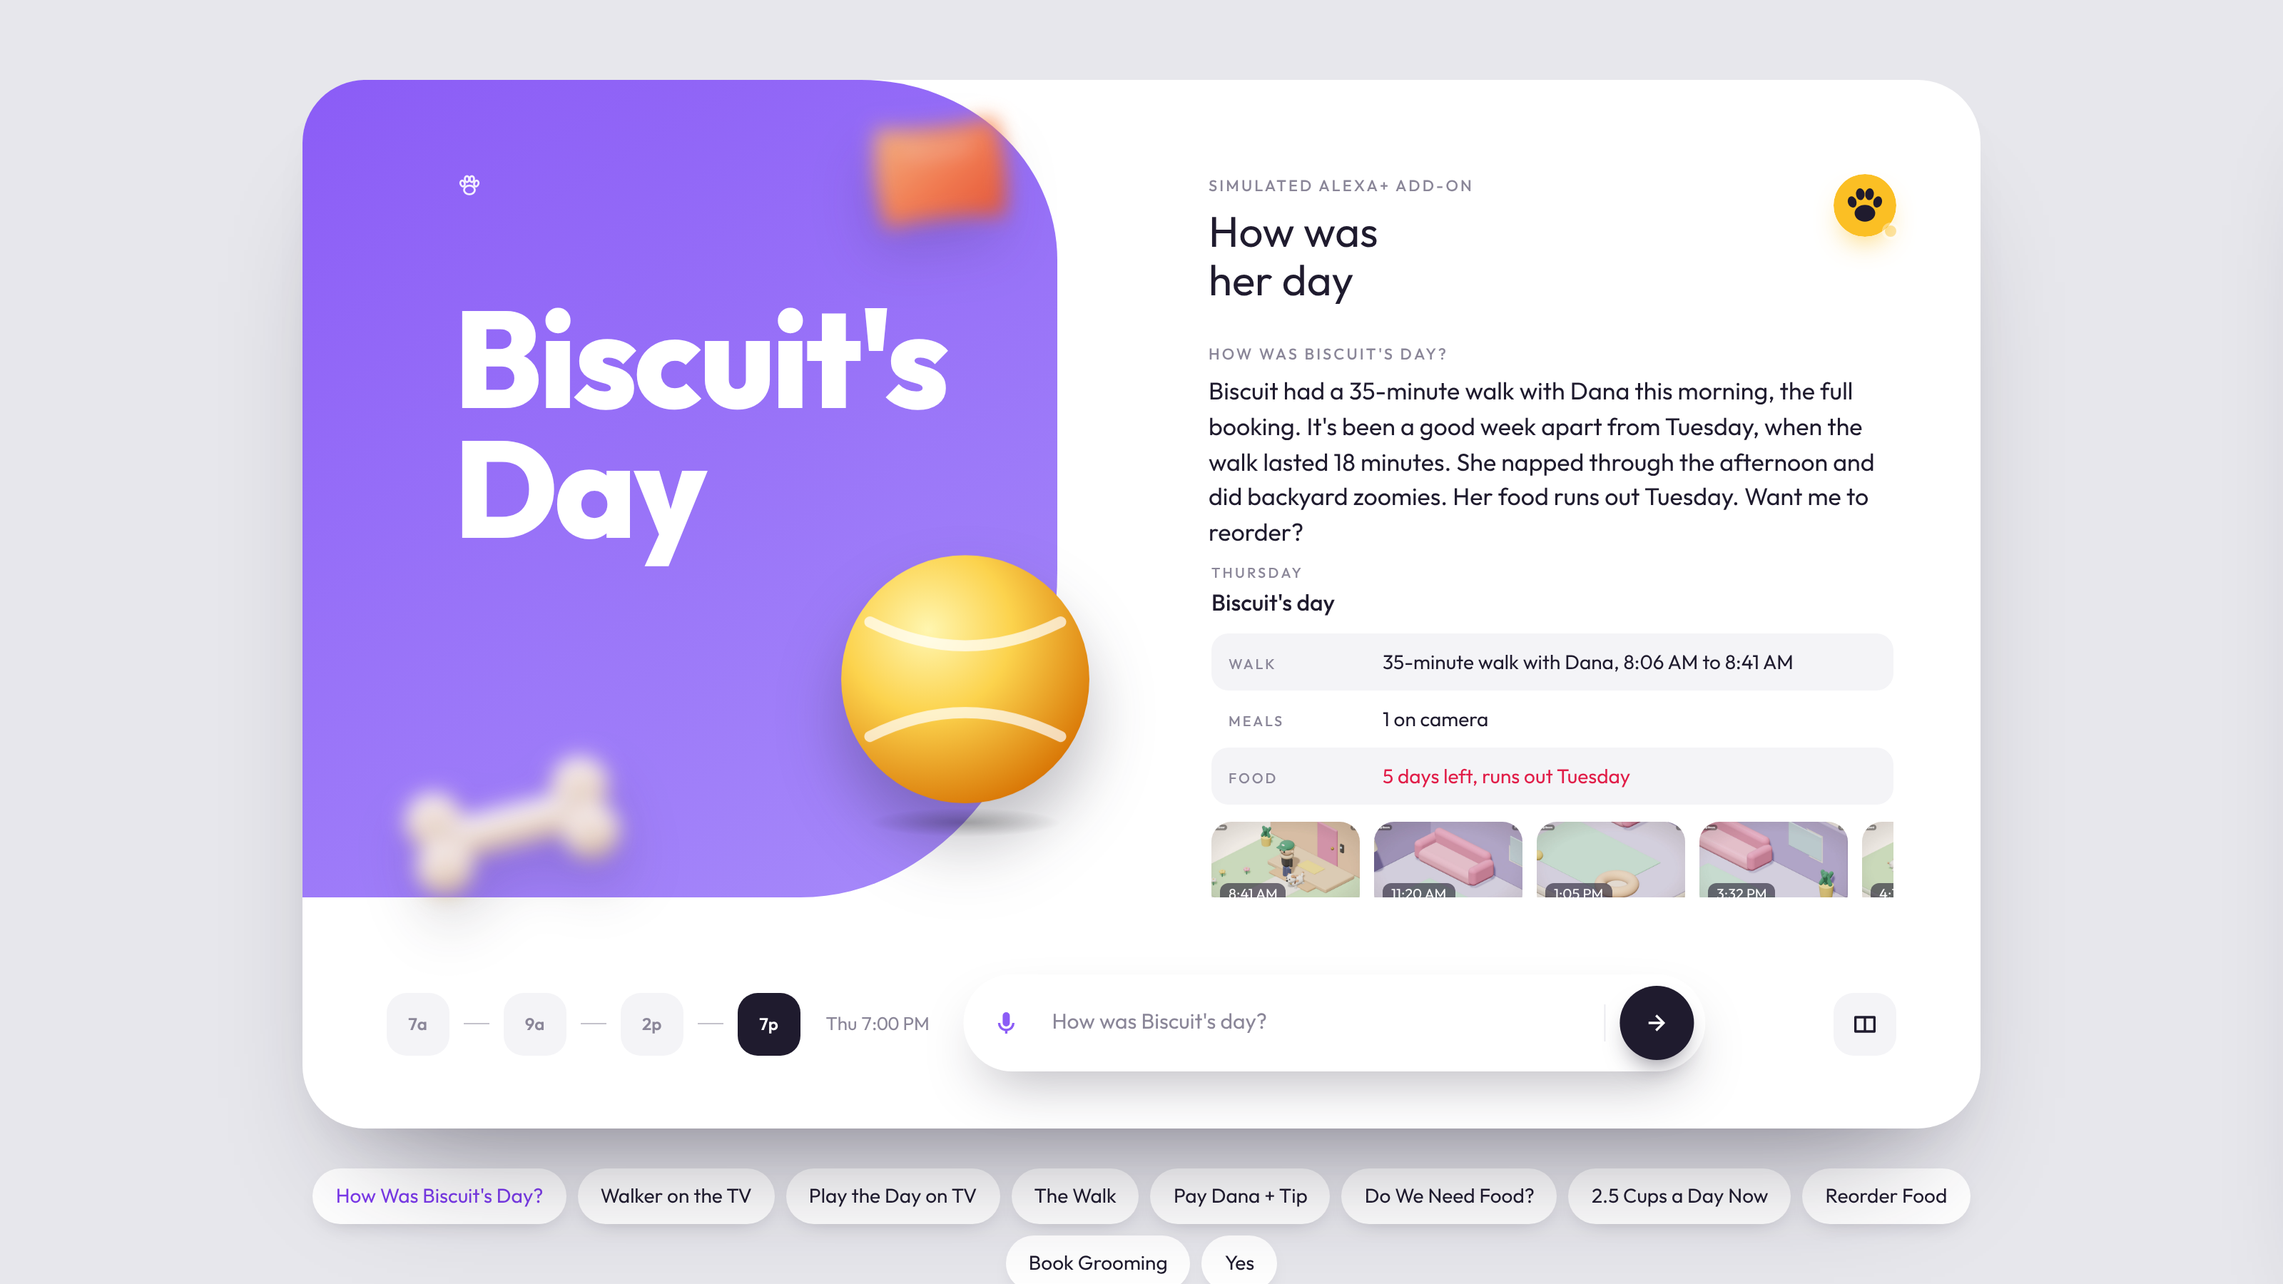
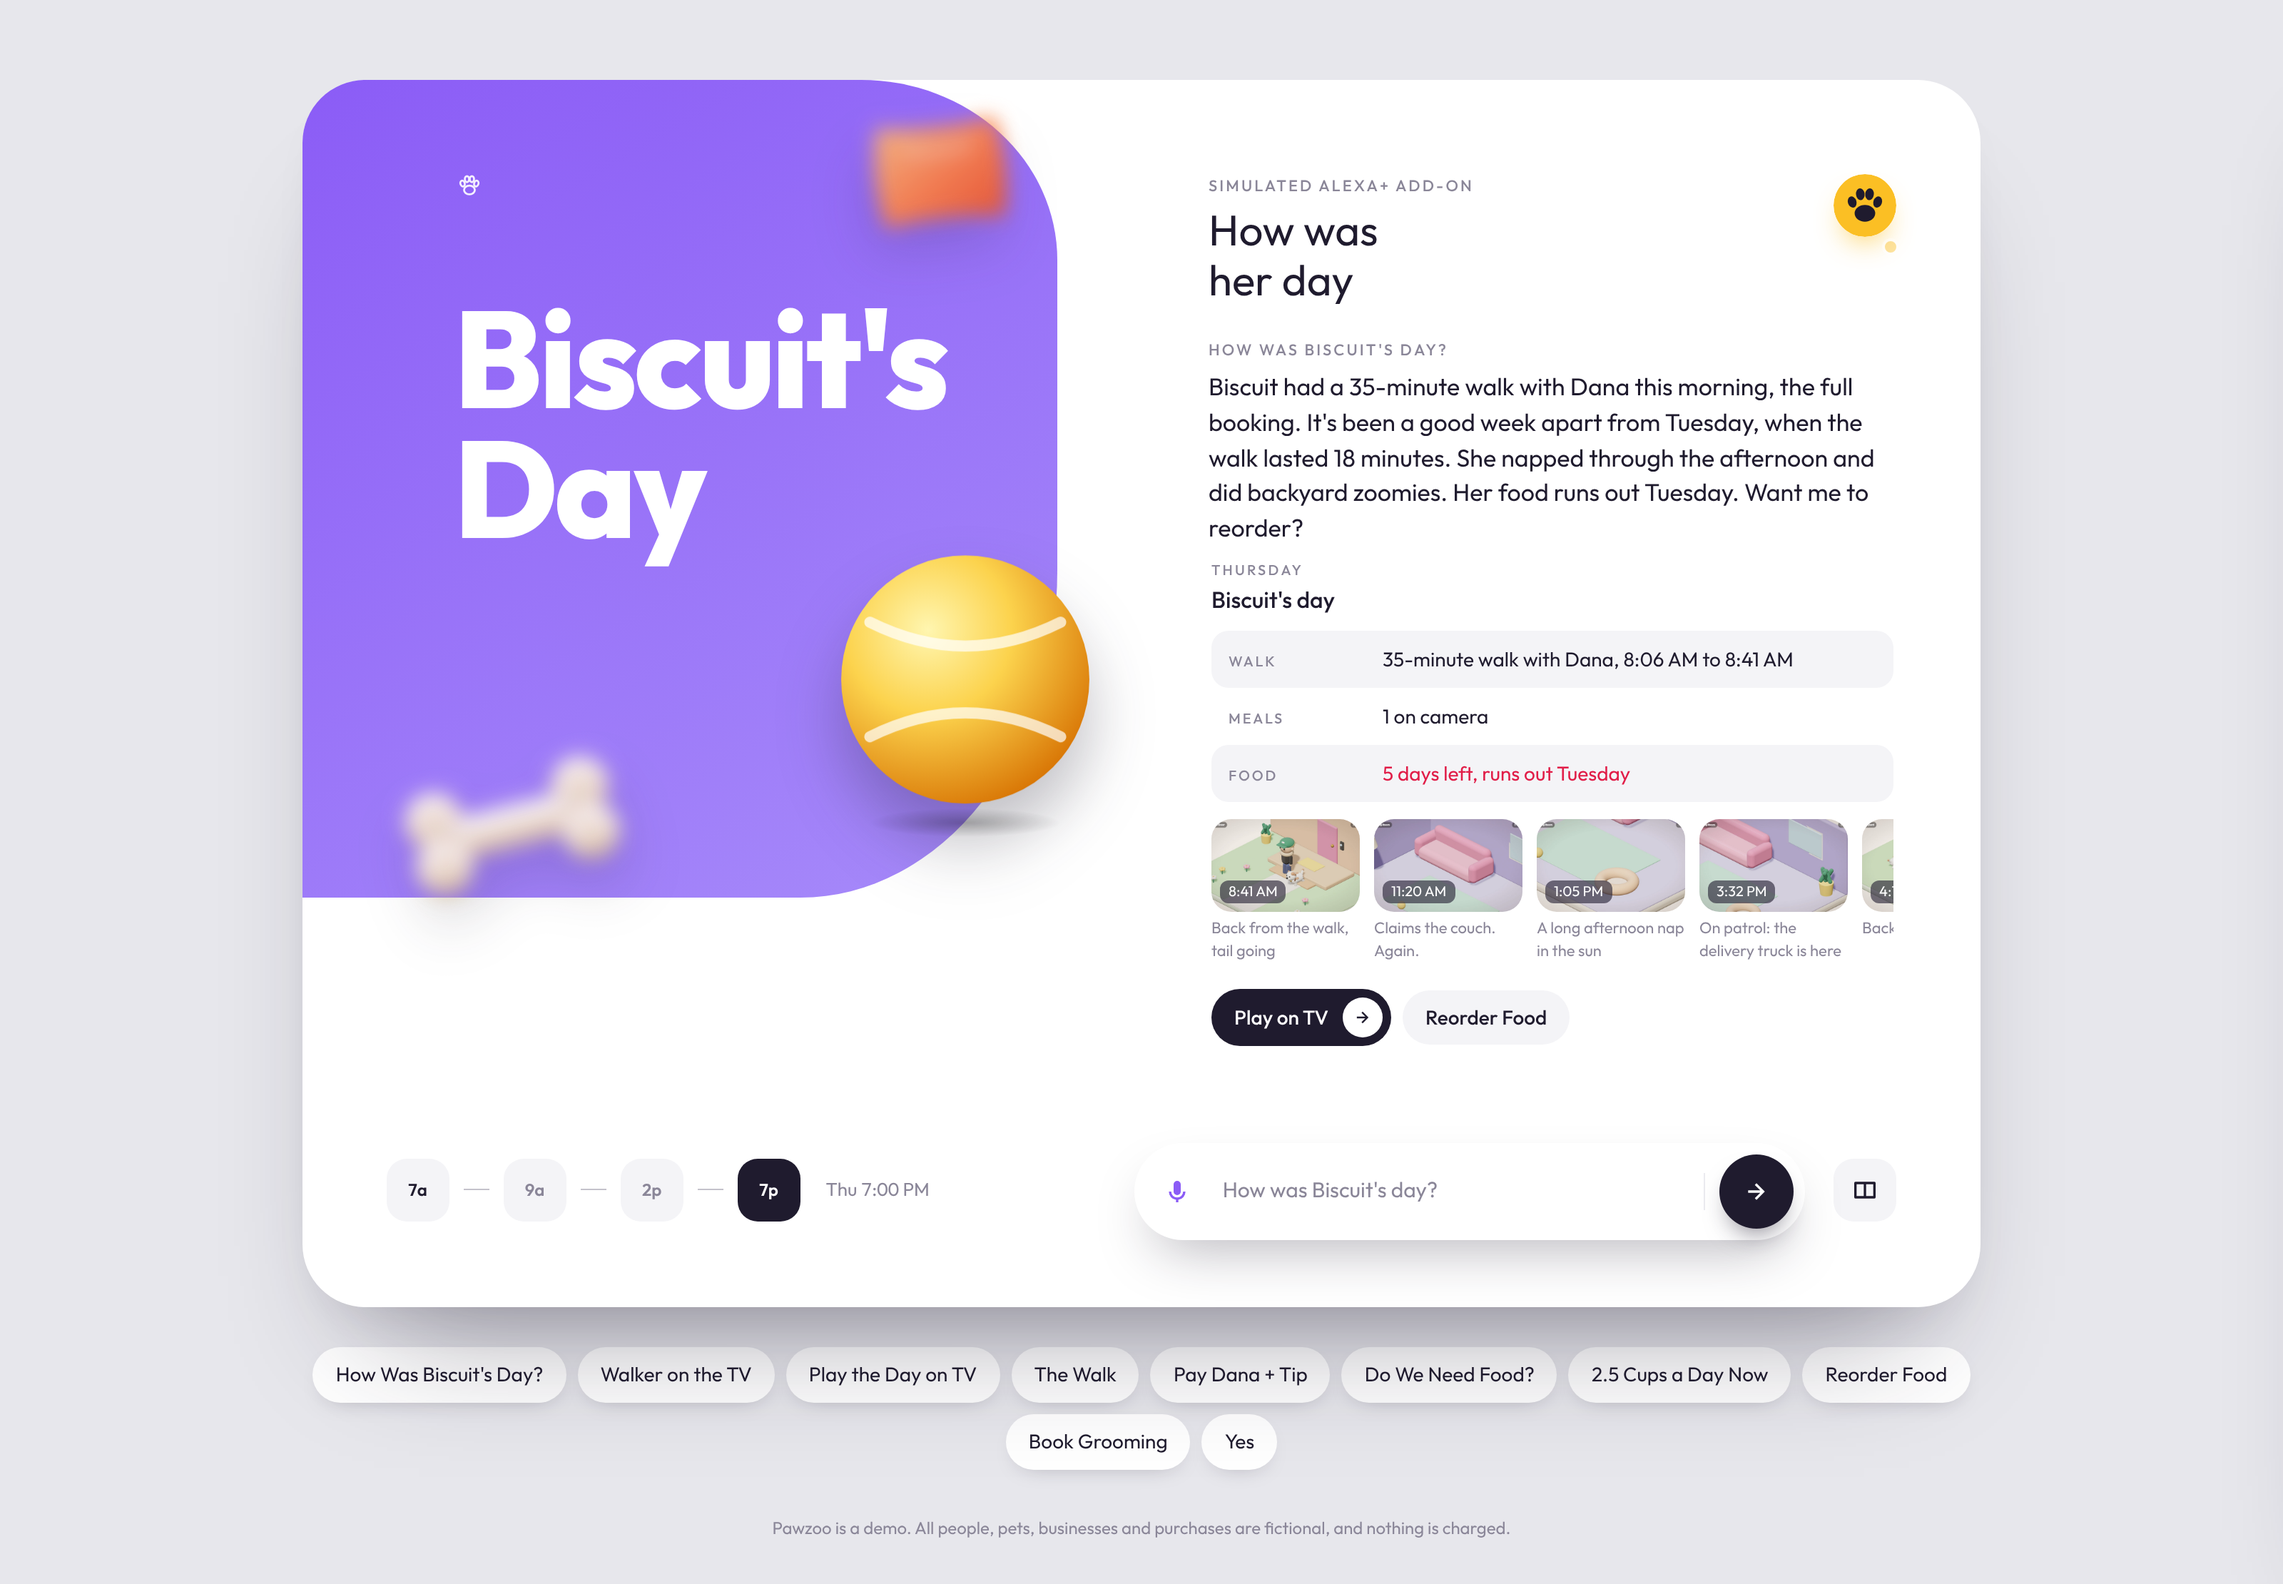
Re-shoot the film on the updated apps, and make Done a receipt
The film is captured from the current simulator and TV: captures are as tall
as the tallest answer, the camera reads each card from its recorded box
(heading to buttons, above the caption pill), and a soft veil covers the
blob while it reads so no title is shown sliced. The Done card now lists
what was paid, ordered or booked instead of repeating the spoken line.

Claude-Session: https://claude.ai/code/session_013f1sAe64TqFkDagamZiBgh

Changed region(s): [[0.125, 0.0311, 0.875, 0.9956], [0.7812, 0.0933, 0.8438, 0.2178]]

diff --git a/demo/src/pawzoo/scenes.tsx b/demo/src/pawzoo/scenes.tsx
@@ -1,7 +1,7 @@
 import React from 'react';
 import { AbsoluteFill, Img, interpolate, staticFile, useCurrentFrame, useVideoConfig } from 'remotion';
 import { theme } from '../theme';
-import { BlurText, Camera, clamp, Cursor, easeOut, popAt, type CamKey, type CursorKey } from '../components/motion';
+import { BlurText, Camera, cameraAt, clamp, Cursor, easeOut, popAt, type CamKey, type CursorKey } from '../components/motion';
 import boxes from '../../public/pawzoo/boxes.json';
 
 type SceneProps = { duration: number };
@@ -14,10 +14,12 @@ const center = (key: string): [number, number] => {
 
 /* ------------------------------------------------------------ the browser window */
 
-// Captures are 1600x900 css px; the window shows them 1500 world units wide.
-const WIN = { w: 1500, bar: 46 };
-const S = WIN.w / 1600;
-const winH = 900 * S + WIN.bar;
+// Captures are 1600 css px wide and as tall as the simulator's tallest answer (boxes.size.h);
+// the window shows them 1400 world units wide.
+const CAP = (boxes as unknown as { size: { w: number; h: number } }).size;
+const WIN = { w: 1400, bar: 46 };
+const S = WIN.w / CAP.w;
+const winH = CAP.h * S + WIN.bar;
 /** World position of a point on the capture (css px). */
 const w = (x: number, y: number) => ({ x: -WIN.w / 2 + x * S, y: -winH / 2 + WIN.bar + y * S });
 
@@ -57,7 +59,7 @@ const Window: React.FC<{ states: State[]; url?: string }> = ({ states, url = '12
           {url}
         </div>
       </div>
-      <div style={{ position: 'relative', width: WIN.w, height: 900 * S, background: theme.bg }}>
+      <div style={{ position: 'relative', width: WIN.w, height: CAP.h * S, background: theme.bg }}>
         {layers.map((l) =>
           l.visible ? (
             <Img key={l.src} src={staticFile(`pawzoo/${l.src}.png`)} style={{ position: 'absolute', inset: 0, width: '100%', height: '100%', opacity: l.opacity }} />
@@ -96,13 +98,59 @@ const Television: React.FC<{ states: State[] }> = ({ states }) => {
 
 /** Camera key that centres a point of the capture at zoom z. */
 const at = (f: number, x: number, y: number, z: number): CamKey => ({ f, ...w(x, y), z });
-const WIDE = (f: number): CamKey => ({ f, x: 0, y: 30, z: 1.0 });
+const WIDE = (f: number): CamKey => ({ f, x: 0, y: 0, z: 1.0 });
+/** The whole simulator, a little closer, for clicking the suggestion chips. */
+const NEAR = (f: number): CamKey => at(f, CAP.w / 2, CAP.h / 2, 1.06);
+/**
+ * Reads the answer in a capture: centres its box and zooms as close as fits the whole card, buttons
+ * included (never closer than READ). `drift` eases in a touch over the hold.
+ */
+const read = (f: number, shot: string, drift = 0): CamKey => {
+  const answer = B[`answer:${shot}`] ?? { x: 847, y: 237, w: 482, h: 480 };
+  // Take in the heading above the answer too ("How was her day"), so no line is cut at the top.
+  const headTop = 118;
+  const b = { ...answer, y: headTop, h: answer.y + answer.h - headTop };
+  // The card sits in the screen above the caption pill (bottom 180px), with a margin all round.
+  const top = 40;
+  const bottom = 1080 - 180;
+  const z = Math.min(READ, (bottom - top) / ((b.h + 40) * S), (1920 * 0.9) / ((b.w + 120) * S)) + drift;
+  const lift = (1080 / 2 - (top + bottom) / 2) / (z * S);
+  return at(f, b.x + b.w / 2, b.y + b.h / 2 + lift, z);
+};
 /** Cursor key on a capture point. */
 const cur = (f: number, x: number, y: number, click = false): CursorKey => ({ f, ...w(x, y), click });
 const clickOn = (f: number, key: string): CursorKey => cur(f, ...center(key), true);
-const ANSWER: [number, number] = [1140, 420];
-/** Zoom for reading a card: starts the frame past the blob's title, so no word is sliced. */
+/** Closest zoom for reading a card. */
 const READ = 1.95;
+
+/**
+ * While the camera reads a card, a soft white veil covers the screen left of the answer column, so
+ * the big blob title is never shown sliced in half at the frame edge.
+ */
+const ReadVeil: React.FC<{ keys: CamKey[] }> = ({ keys }) => {
+  const frame = useCurrentFrame();
+  const { width } = useVideoConfig();
+  const c = cameraAt(frame, keys);
+  const answerLeft = w((B['answer:sim-day']?.x ?? 847) - 28, 0).x;
+  const edge = width / 2 + (answerLeft - c.x) * c.z;
+  const opacity = interpolate(c.z, [1.1, 1.35], [0, 1], clamp);
+  if (opacity <= 0 || edge <= 0) return null;
+  return (
+    <AbsoluteFill style={{ pointerEvents: 'none' }}>
+      <div
+        style={{
+          position: 'absolute',
+          left: 0,
+          top: 0,
+          bottom: 0,
+          width: edge,
+          opacity,
+          background: `linear-gradient(90deg, ${theme.bg} 0%, #ffffff ${String(Math.max(0, ((edge - 140) / edge) * 100))}%, rgba(255,255,255,0) 100%)`,
+        }}
+      />
+    </AbsoluteFill>
+  );
+};
 
 /** Small caption pill under the action, for the benefit the line names. */
 const Callout: React.FC<{ text: string; at: number; outAt: number }> = ({ text, at: start, outAt }) => {
@@ -156,7 +204,7 @@ export const IntroScene: React.FC<SceneProps> = ({ duration }) => {
 
 export const DayScene: React.FC<SceneProps> = ({ duration }) => {
   const click = 58;
-  const cam: CamKey[] = [WIDE(0), WIDE(click + 16), at(150, ...ANSWER, READ), at(duration, ANSWER[0] + 8, ANSWER[1] + 10, READ + 0.06)];
+  const cam: CamKey[] = [WIDE(0), WIDE(click + 16), read(150, 'sim-day'), read(duration, 'sim-day', 0.05)];
   const cursor: CursorKey[] = [cur(0, 1250, 640), cur(46, ...center('chipDay')), clickOn(click, 'chipDay'), cur(click + 40, 600, 700)];
   return (
     <>
@@ -164,6 +212,7 @@ export const DayScene: React.FC<SceneProps> = ({ duration }) => {
         <Window states={[{ src: 'sim-start', at: 0 }, { src: 'sim-day', at: click + 8 }]} />
         <Cursor keys={cursor} visibleFrom={4} visibleTo={click + 60} />
       </Camera>
+      <ReadVeil keys={cam} />
       <Callout text="One question, one answer" at={170} outAt={duration - 20} />
     </>
   );
@@ -171,7 +220,7 @@ export const DayScene: React.FC<SceneProps> = ({ duration }) => {
 
 export const WalkScene: React.FC<SceneProps> = ({ duration }) => {
   const click = 44;
-  const cam: CamKey[] = [at(0, 900, 560, 1.12), at(click + 10, 900, 560, 1.12), at(150, 1140, 400, READ), at(duration, 1146, 410, READ + 0.06)];
+  const cam: CamKey[] = [NEAR(0), NEAR(click + 10), read(150, 'sim-walk'), read(duration, 'sim-walk', 0.05)];
   const cursor: CursorKey[] = [cur(0, 1150, 690), cur(34, ...center('chipWalk')), clickOn(click, 'chipWalk'), cur(click + 40, 1000, 700)];
   return (
     <>
@@ -179,6 +228,7 @@ export const WalkScene: React.FC<SceneProps> = ({ duration }) => {
         <Window states={[{ src: 'sim-day', at: 0 }, { src: 'sim-walk', at: click + 8 }]} />
         <Cursor keys={cursor} visibleFrom={0} visibleTo={click + 50} />
       </Camera>
+      <ReadVeil keys={cam} />
       <Callout text="Checked against the front door camera" at={160} outAt={duration - 20} />
     </>
   );
@@ -187,7 +237,7 @@ export const WalkScene: React.FC<SceneProps> = ({ duration }) => {
 export const PayScene: React.FC<SceneProps> = ({ duration }) => {
   const tap = 44;
   const confirm = 196;
-  const cam: CamKey[] = [at(0, 1140, 470, READ), at(tap + 12, 1140, 470, READ), at(110, 1140, 430, READ), at(confirm + 20, 1140, 430, READ), at(duration, 1146, 400, READ + 0.06)];
+  const cam: CamKey[] = [read(0, 'sim-walk'), read(tap + 12, 'sim-walk'), read(110, 'sim-pay'), read(confirm + 20, 'sim-pay'), read(duration, 'sim-paid', 0.05)];
   const cursor: CursorKey[] = [cur(0, 1150, 700), cur(34, ...center('cardPayTip')), clickOn(tap, 'cardPayTip'), cur(150, 1000, 560), cur(186, ...center('cardConfirm')), clickOn(confirm, 'cardConfirm'), cur(confirm + 40, 1100, 600)];
   return (
     <>
@@ -195,6 +245,7 @@ export const PayScene: React.FC<SceneProps> = ({ duration }) => {
         <Window states={[{ src: 'sim-walk', at: 0 }, { src: 'sim-pay', at: tap + 8 }, { src: 'sim-paid', at: confirm + 8 }]} />
         <Cursor keys={cursor} visibleFrom={0} visibleTo={confirm + 50} />
       </Camera>
+      <ReadVeil keys={cam} />
       <Callout text="Nothing is bought without your yes" at={confirm + 14} outAt={duration - 20} />
     </>
   );
@@ -204,13 +255,13 @@ export const FoodScene: React.FC<SceneProps> = ({ duration }) => {
   const food = 40;
   const cups = 214;
   const cam: CamKey[] = [
-    at(0, 900, 560, 1.12),
-    at(food + 12, 900, 560, 1.12),
-    at(130, 1140, 470, READ),
-    at(cups - 40, 1140, 470, READ),
-    at(cups - 6, 900, 560, 1.12),
-    at(cups + 14, 900, 560, 1.12),
-    at(duration - 40, 1144, 460, READ + 0.04),
+    NEAR(0),
+    NEAR(food + 12),
+    read(130, 'sim-food'),
+    read(cups - 40, 'sim-food'),
+    NEAR(cups - 6),
+    NEAR(cups + 14),
+    read(duration - 40, 'sim-cups', 0.04),
   ];
   const cursor: CursorKey[] = [
     cur(0, 1150, 690),
@@ -227,6 +278,7 @@ export const FoodScene: React.FC<SceneProps> = ({ duration }) => {
         <Window states={[{ src: 'sim-paid', at: 0 }, { src: 'sim-food', at: food + 8 }, { src: 'sim-cups', at: cups + 8 }]} />
         <Cursor keys={cursor} visibleFrom={0} visibleTo={cups + 50} />
       </Camera>
+      <ReadVeil keys={cam} />
       <Callout text="It remembers: 2.5 cups a day" at={cups + 60} outAt={duration - 20} />
     </>
   );
@@ -234,7 +286,7 @@ export const FoodScene: React.FC<SceneProps> = ({ duration }) => {
 
 export const GroomScene: React.FC<SceneProps> = ({ duration }) => {
   const click = 40;
-  const cam: CamKey[] = [at(0, 900, 580, 1.1), at(click + 12, 900, 580, 1.1), at(140, 1172, 440, READ), at(duration, 1176, 450, READ + 0.04)];
+  const cam: CamKey[] = [NEAR(0), NEAR(click + 12), read(140, 'sim-groom'), read(duration, 'sim-groom', 0.04)];
   const cursor: CursorKey[] = [cur(0, 1150, 700), cur(30, ...center('chipGroom')), clickOn(click, 'chipGroom'), cur(click + 40, 1000, 740)];
   return (
     <>
@@ -242,6 +294,7 @@ export const GroomScene: React.FC<SceneProps> = ({ duration }) => {
         <Window states={[{ src: 'sim-cups', at: 0 }, { src: 'sim-groom', at: click + 8 }]} />
         <Cursor keys={cursor} visibleFrom={0} visibleTo={click + 50} />
       </Camera>
+      <ReadVeil keys={cam} />
       <Callout text="The morning slot you asked for" at={150} outAt={duration - 20} />
     </>
   );

diff --git a/server/views/card.ts b/server/views/card.ts
@@ -137,8 +137,30 @@ function slotsCard(d: Any): string {
   return `<header><p class="eyebrow">Open slots</p><h1>${esc(label[d.service] ?? d.service)}</h1></header><ul class="rows">${rows || '<li class="muted">Nothing open.</li>'}</ul>`;
 }
 
+const when = (at: string, opts: Intl.DateTimeFormatOptions) => new Date(at).toLocaleString('en-US', { ...opts, timeZone: 'America/Chicago' });
+
+/** A receipt for what was just done: the details behind the spoken line, not the line again. */
 function doneCard(d: Any): string {
-  return `<header><p class="eyebrow">Done</p><h1>${esc(d.say)}</h1></header>`;
+  const x = d.done;
+  if (d.remembered) return `<header><p class="eyebrow">Remembered</p><h1>Noted for next time</h1></header><ul class="facts"><li><b>You said</b> ${esc(d.remembered)}</li></ul>`;
+  if (!x) return `<header><p class="eyebrow">Done</p><h1>All set</h1></header>`;
+  let title = '';
+  let lines = '';
+  if (x.kind === 'order') {
+    title = 'Food ordered';
+    lines = `<li><b>Item</b> ${esc(x.product.name)}${x.order.quantity > 1 ? ` x${String(x.order.quantity)}` : ''}</li>
+      <li><b>Total</b> ${money(x.order.totalUsd)}</li><li><b>Arrives</b> ${esc(when(`${String(x.order.arrivesOn)}T17:00:00Z`, { weekday: 'long', month: 'short', day: 'numeric' }))}</li>`;
+  } else if (x.kind === 'walk_payment') {
+    title = 'Walk paid';
+    const paid = x.walk.paid;
+    lines = `<li><b>To</b> ${esc(x.walk.walker)}</li><li><b>Walk</b> ${money(paid.amountUsd)}</li><li><b>Tip</b> ${money(paid.tipUsd)}</li><li><b>Total</b> ${money(paid.amountUsd + paid.tipUsd)}</li>`;
+  } else {
+    const slot = x.booking.slot;
+    title = slot.service === 'vet_checkup' ? 'Check-up booked' : slot.service === 'extra_walk' ? 'Extra walk booked' : 'Grooming booked';
+    lines = `<li><b>Where</b> ${esc(slot.provider)}</li><li><b>When</b> ${esc(when(slot.startAt, { weekday: 'long', hour: 'numeric', minute: '2-digit' }))}</li><li><b>Price</b> ${money(slot.priceUsd)}</li>`;
+  }
+  return `<header><p class="eyebrow">Done</p><h1>${title}</h1></header><ul class="facts">${lines}</ul>
+    <p class="muted small">Simulated. Nothing is charged in this demo.</p>`;
 }
 
 function render(data: Any | undefined): void {
